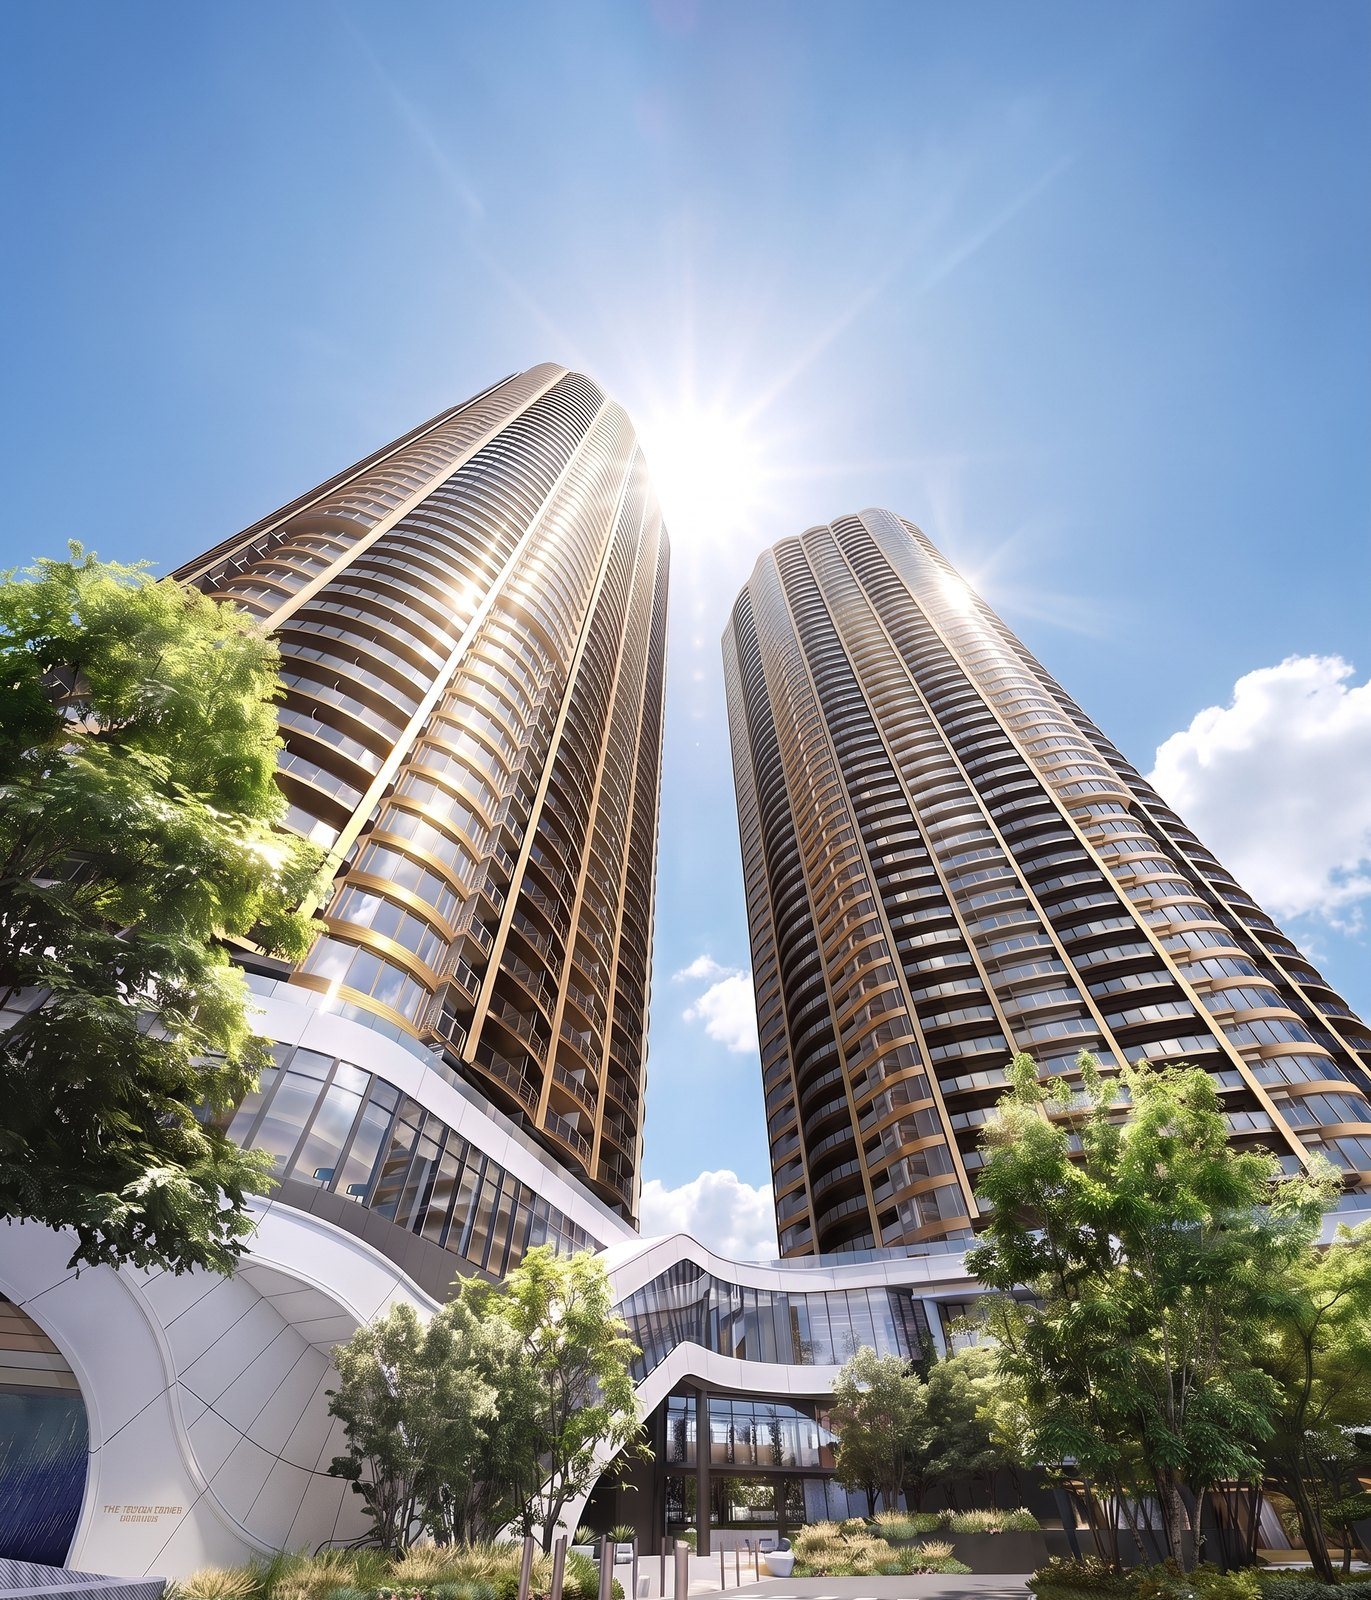
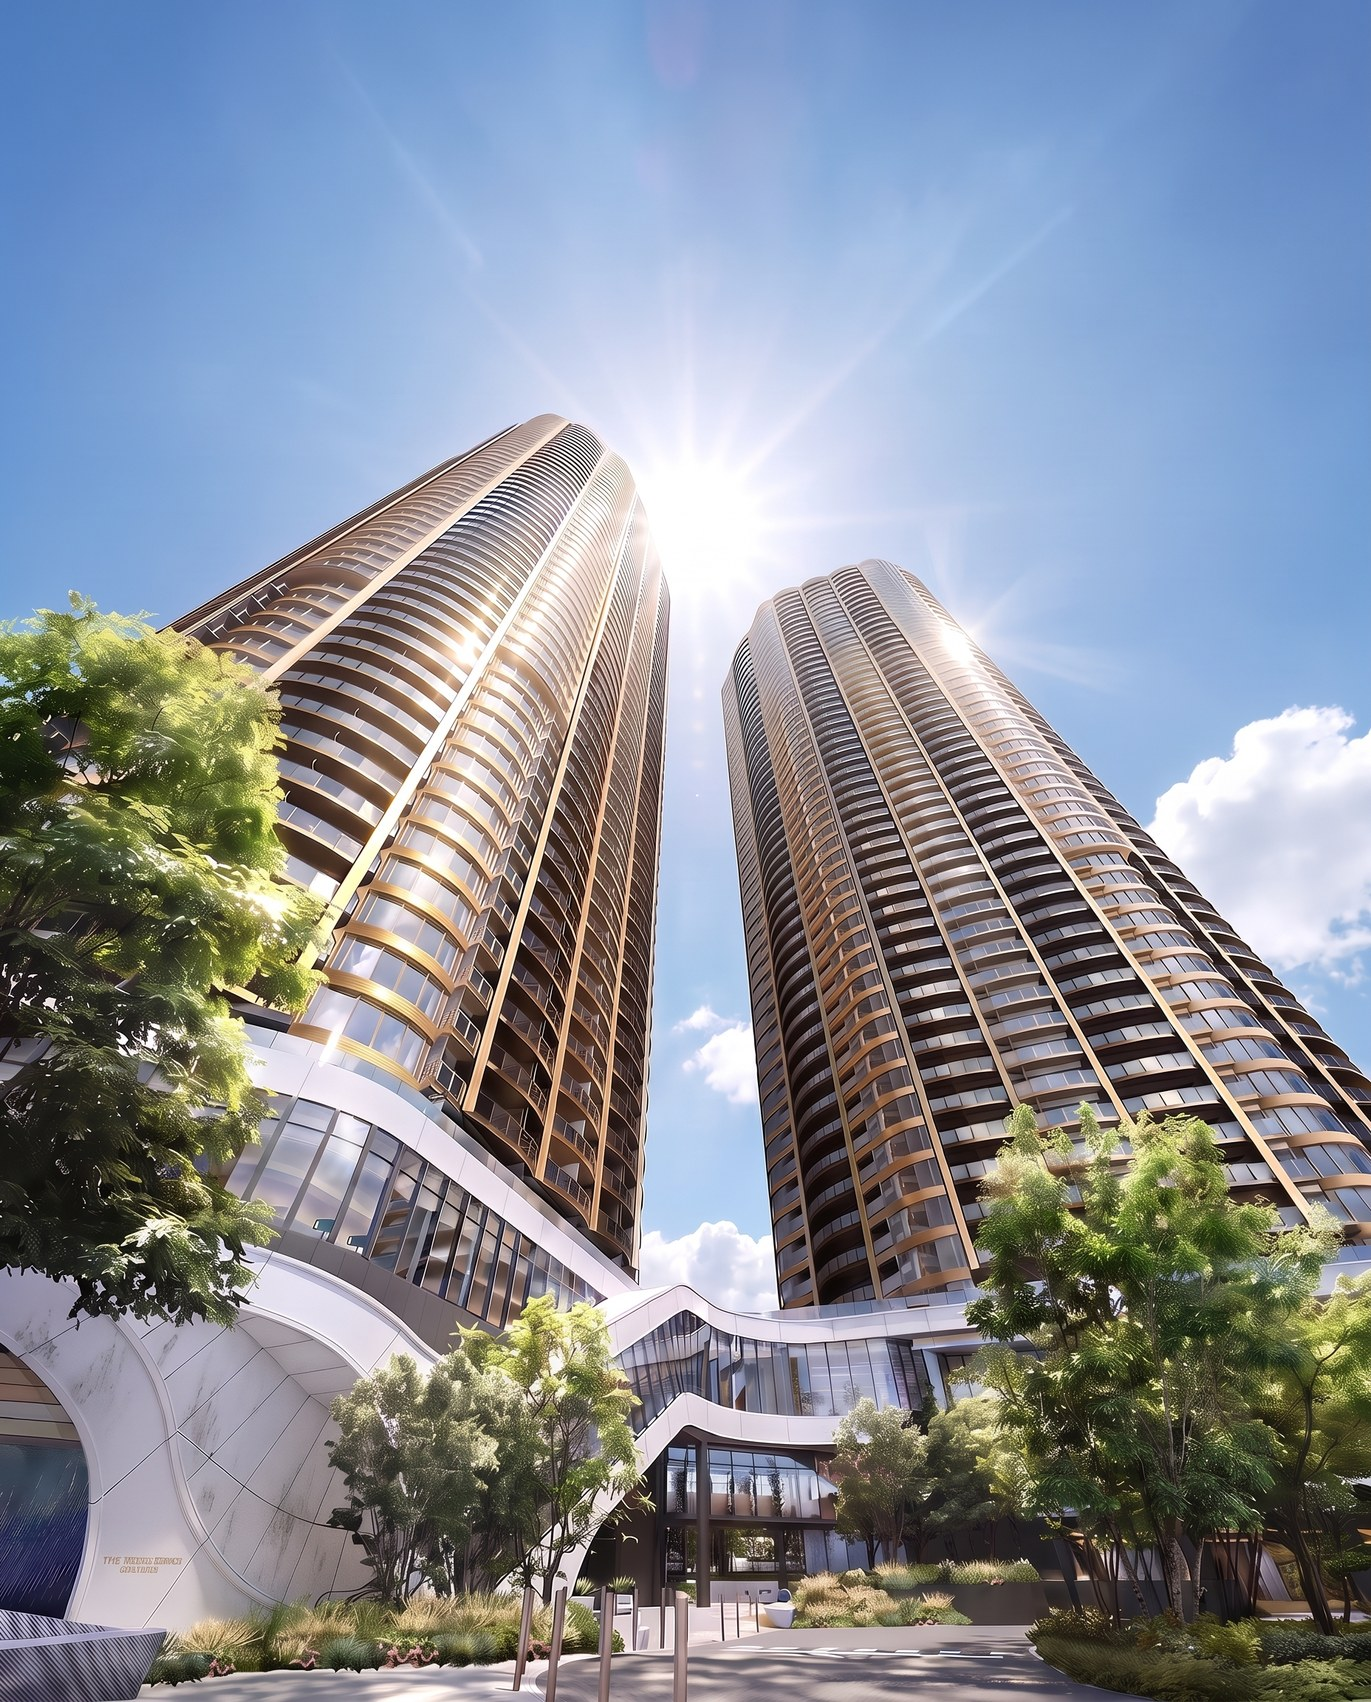
Update site

diff --git a/index.html b/index.html
@@ -422,7 +422,7 @@ html[lang="zh"] .hero .p{white-space:normal;flex-wrap:wrap;row-gap:4px}html[lang
         <figure class="zoom"><img src="img/c16_corridor.jpg" width="1600" height="1440" loading="lazy" alt="内廊下"><figcaption><span class="t" data-i18n="t066">内廊下</span></figcaption></figure>
       </div>
       <div class="grid grid-2 offset rv">
-        <figure class="zoom"><img class="ar-3-4" src="img/r02_facade.jpg" width="1371" height="1600" loading="lazy" alt="外観"><figcaption><span class="t" data-i18n="t056">外観</span><span class="d" data-i18n="t067">　ラウンドしたバルコニーのファサード（AI生成イメージ）</span></figcaption></figure>
+        <figure class="zoom"><img class="ar-3-4" src="img/r02_facade.jpg" width="1371" height="1702" loading="lazy" alt="外観"><figcaption><span class="t" data-i18n="t056">外観</span><span class="d" data-i18n="t067">　ラウンドしたバルコニーのファサード（AI生成イメージ）</span></figcaption></figure>
         <figure class="zoom"><img class="ar-3-4" src="img/r04_entrance_night.jpg" width="1600" height="800" loading="lazy" alt="エントランス 夜景"><figcaption><span class="t" data-i18n="t068">エントランス 夜景</span></figcaption></figure>
       </div>
       <div class="grid grid-2 rv">
